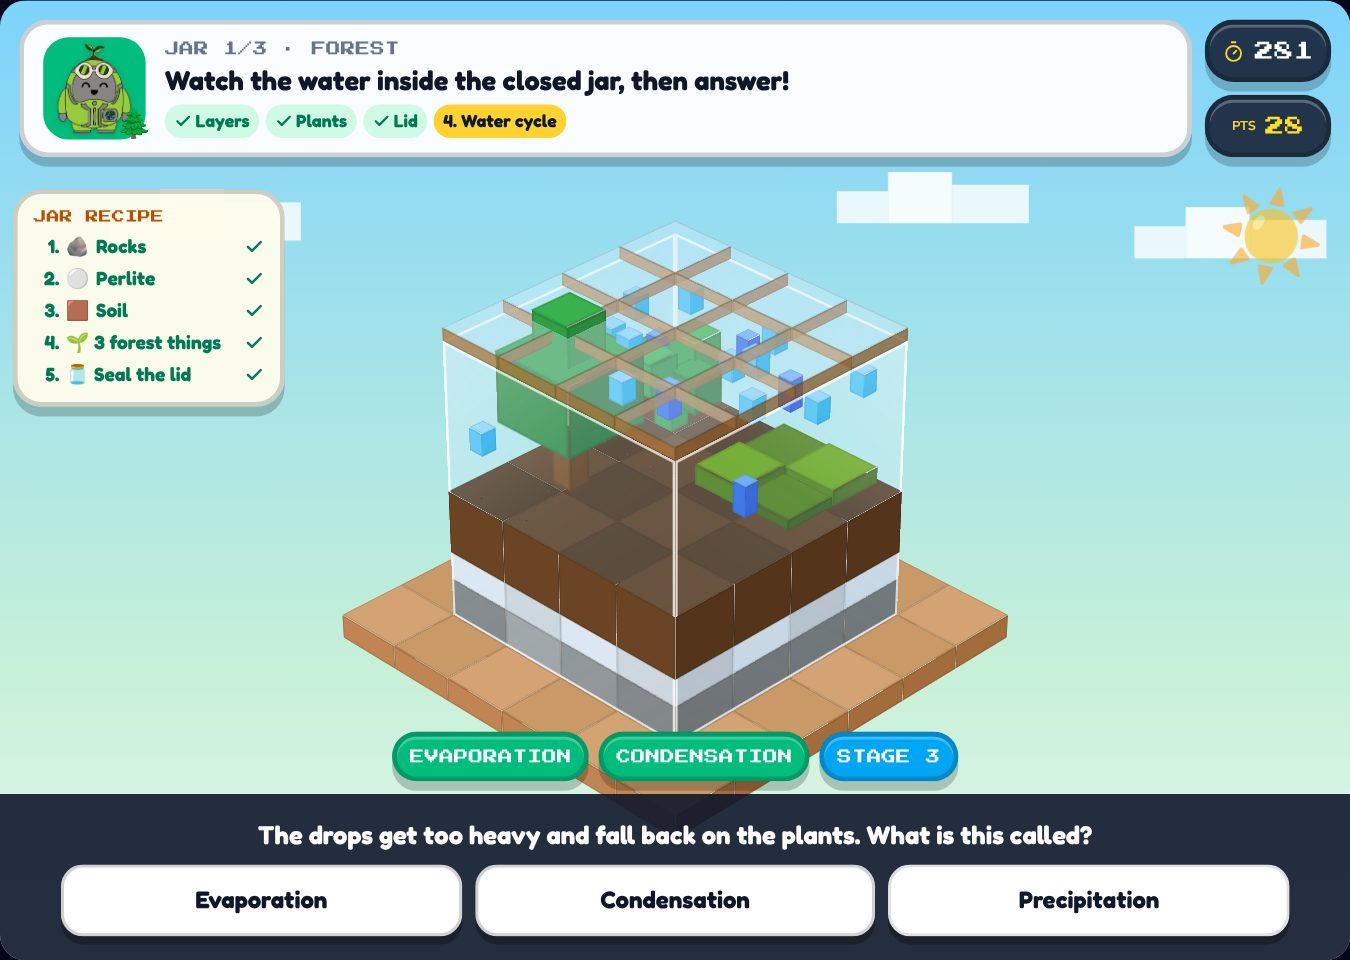
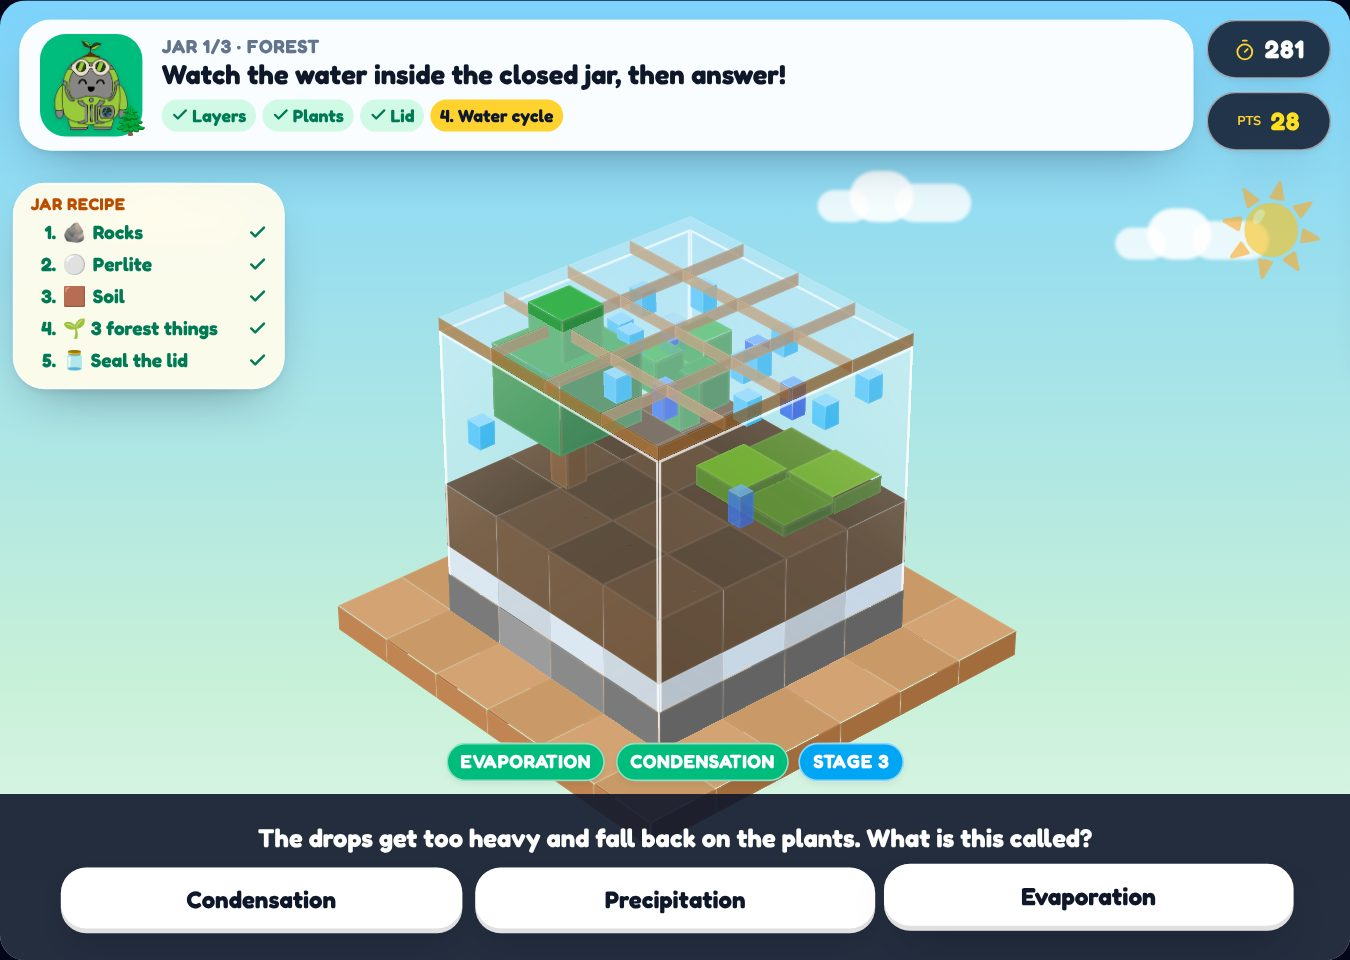
Give all lesson games a cleaner, less retro look with more motion
The shared game kit drops the pixel font for Fredoka, swaps hard pixel
shadows and borders for soft rounded glass panels and springy buttons, and
replaces the checker and striped block textures with a smooth sheen. 3D
scenes now sway gently, header backgrounds have drifting light, and hotbar
tiles, sliders and clouds are rounded. Monopoly, BODMAS and Room Designer
floors lose their checker patterns.

Claude-Session: https://claude.ai/code/session_01GFdHE66tHrJE57FsyW3SaQ

Changed region(s): [[0.0622, 0.2188, 0.9644, 1.0], [0.0, 0.0, 0.9956, 0.4375], [0.0311, 0.9375, 0.0622, 0.9688]]

diff --git a/src/games/kit/games.css b/src/games/kit/games.css
@@ -1,63 +1,75 @@
-@import url("https://fonts.googleapis.com/css2?family=Press+Start+2P&family=Fredoka:wght@500;600;700&display=swap");
+@import url("https://fonts.googleapis.com/css2?family=Fredoka:wght@500;600;700&display=swap");
 
-/* Shared styles for the lesson games (pixel font, voxel blocks, animations). */
+/* Shared styles for the lesson games: clean rounded type, soft panels,
+   smooth 3D blocks and animations. */
 
+/* Labels, scores and counters. (Was a pixel font: font-size-adjust keeps the
+   sizes the games were laid out for while using a clean rounded face.) */
 .game-pixel {
-  font-family: "Press Start 2P", ui-monospace, monospace;
-  letter-spacing: 0.02em;
+  font-family: "Fredoka", ui-rounded, system-ui, sans-serif;
+  font-weight: 700;
+  font-size-adjust: 0.66;
+  letter-spacing: 0.04em;
+  font-variant-numeric: tabular-nums;
+  line-height: 1.15;
 }
 
 .game-fun {
   font-family: "Fredoka", ui-rounded, system-ui, sans-serif;
 }
 
-/* Chunky "pressable" game buttons with a 3D bottom edge */
+/* Soft, rounded buttons that lift on hover and squish on press */
 .game-btn {
   font-family: "Fredoka", ui-rounded, system-ui, sans-serif;
   font-weight: 700;
-  border-radius: 14px;
+  border-radius: 16px;
   padding: 0.7rem 1.25rem;
-  box-shadow: 0 5px 0 rgba(0, 0, 0, 0.28), inset 0 2px 0 rgba(255, 255, 255, 0.35);
-  transform: translateY(0);
-  transition: transform 80ms ease, box-shadow 80ms ease, filter 120ms ease;
-  border: 2px solid rgba(0, 0, 0, 0.18);
+  border: none;
+  box-shadow: 0 8px 18px -8px rgba(15, 23, 42, 0.45), inset 0 -3px 0 rgba(0, 0, 0, 0.12), inset 0 1px 0 rgba(255, 255, 255, 0.45);
+  transform: translateY(0) scale(1);
+  transition: transform 160ms cubic-bezier(0.2, 0.9, 0.3, 1.3), box-shadow 160ms ease, filter 160ms ease;
 }
 .game-btn:hover:not(:disabled) {
-  filter: brightness(1.07);
+  transform: translateY(-2px) scale(1.02);
+  box-shadow: 0 14px 24px -10px rgba(15, 23, 42, 0.5), inset 0 -3px 0 rgba(0, 0, 0, 0.12), inset 0 1px 0 rgba(255, 255, 255, 0.45);
 }
 .game-btn:active:not(:disabled) {
-  transform: translateY(4px);
-  box-shadow: 0 1px 0 rgba(0, 0, 0, 0.28), inset 0 2px 0 rgba(255, 255, 255, 0.35);
+  transform: translateY(1px) scale(0.97);
+  box-shadow: 0 4px 10px -6px rgba(15, 23, 42, 0.45), inset 0 -1px 0 rgba(0, 0, 0, 0.12);
 }
 .game-btn:disabled {
   opacity: 0.45;
   cursor: not-allowed;
 }
 
-/* Pixel-block panel, Minecraft-ish */
+/* Floating glass card */
 .game-panel {
-  border-radius: 18px;
-  border: 3px solid rgba(0, 0, 0, 0.18);
-  box-shadow: 0 6px 0 rgba(0, 0, 0, 0.2), inset 0 2px 0 rgba(255, 255, 255, 0.25);
+  border-radius: 20px;
+  border: 1px solid rgba(255, 255, 255, 0.55);
+  box-shadow: 0 14px 34px -16px rgba(15, 23, 42, 0.45), 0 2px 6px -2px rgba(15, 23, 42, 0.12);
+  backdrop-filter: blur(8px);
+  -webkit-backdrop-filter: blur(8px);
 }
 
-/* Checkered pixel overlay that sits on top of any background (incl. gradients) */
+/* Soft light blobs drifting over a gradient (used on headers and start screens) */
 .game-checker {
   isolation: isolate;
 }
 .game-checker::before {
   content: "";
   position: absolute;
-  inset: 0;
+  inset: -20%;
   z-index: -1;
   pointer-events: none;
-  background-image:
-    linear-gradient(45deg, rgba(255, 255, 255, 0.09) 25%, transparent 25%),
-    linear-gradient(-45deg, rgba(255, 255, 255, 0.09) 25%, transparent 25%),
-    linear-gradient(45deg, transparent 75%, rgba(255, 255, 255, 0.09) 75%),
-    linear-gradient(-45deg, transparent 75%, rgba(255, 255, 255, 0.09) 75%);
-  background-size: 32px 32px;
-  background-position: 0 0, 0 16px, 16px -16px, -16px 0;
+  background:
+    radial-gradient(circle at 20% 30%, rgba(255, 255, 255, 0.22), transparent 32%),
+    radial-gradient(circle at 80% 70%, rgba(255, 255, 255, 0.16), transparent 30%),
+    radial-gradient(circle at 60% 10%, rgba(255, 255, 255, 0.12), transparent 25%);
+  animation: game-drift 14s ease-in-out infinite alternate;
+}
+@keyframes game-drift {
+  from { transform: translate3d(-4%, -2%, 0) rotate(0deg); }
+  to { transform: translate3d(4%, 3%, 0) rotate(6deg); }
 }
 
 /* ── Voxel (CSS 3D) ───────────────────────────── */
@@ -75,12 +87,19 @@
   inset: 0;
   backface-visibility: hidden;
   transition: background-color 400ms ease, opacity 300ms ease;
-  box-shadow: inset 0 0 0 1px rgba(0, 0, 0, 0.12);
+  box-shadow: inset 0 0 0 1px rgba(255, 255, 255, 0.08);
 }
 .vx-face.textured {
-  background-image:
-    linear-gradient(rgba(255, 255, 255, 0.1) 25%, transparent 25%, transparent 50%, rgba(0, 0, 0, 0.06) 50%, rgba(0, 0, 0, 0.06) 75%, transparent 75%);
-  background-size: 50% 50%;
+  background-image: linear-gradient(140deg, rgba(255, 255, 255, 0.22), rgba(255, 255, 255, 0) 55%, rgba(0, 0, 0, 0.06));
+}
+
+/* The whole 3D scene sways gently so it always feels alive */
+@keyframes vx-sway {
+  0%, 100% { transform: rotateX(var(--tilt)) rotateZ(calc(var(--spin) - 4deg)); }
+  50% { transform: rotateX(var(--tilt)) rotateZ(calc(var(--spin) + 4deg)); }
+}
+.vx-world.vx-sway {
+  animation: vx-sway 9s ease-in-out infinite;
 }
 
 @keyframes game-float {
@@ -140,25 +159,25 @@
   height: 18px;
   border-radius: 999px;
   background: var(--track, #334155);
-  border: 3px solid rgba(0, 0, 0, 0.25);
+  border: none;
   outline: none;
 }
 .game-range::-webkit-slider-thumb {
   -webkit-appearance: none;
   width: 30px;
   height: 30px;
-  border-radius: 8px;
+  border-radius: 999px;
   background: var(--thumb, #facc15);
-  border: 3px solid rgba(0, 0, 0, 0.35);
-  box-shadow: 0 3px 0 rgba(0, 0, 0, 0.3);
+  border: 4px solid #fff;
+  box-shadow: 0 4px 12px rgba(0, 0, 0, 0.35);
   cursor: grab;
 }
 .game-range::-moz-range-thumb {
   width: 26px;
   height: 26px;
-  border-radius: 8px;
+  border-radius: 999px;
   background: var(--thumb, #facc15);
-  border: 3px solid rgba(0, 0, 0, 0.35);
+  border: 4px solid #fff;
   cursor: grab;
 }
 
@@ -225,28 +244,28 @@
   75% { transform: translate(3px, -2px); }
 }
 
-/* Minecraft-style hotbar slot */
+/* Item tile in a hotbar */
 .game-slot {
-  background: #8b8b8b;
-  border: 3px solid;
-  border-color: #373737 #ffffff #ffffff #373737;
-  box-shadow: inset 0 0 0 2px #c6c6c6;
-  border-radius: 6px;
-  transition: transform 80ms ease, filter 120ms ease;
+  background: rgba(255, 255, 255, 0.12);
+  border: 1px solid rgba(255, 255, 255, 0.22);
+  border-radius: 16px;
+  box-shadow: 0 8px 18px -10px rgba(0, 0, 0, 0.6);
+  transition: transform 160ms cubic-bezier(0.2, 0.9, 0.3, 1.3), background 160ms ease;
 }
 .game-slot:hover:not(:disabled) {
-  filter: brightness(1.12);
-  transform: translateY(-2px);
+  background: rgba(255, 255, 255, 0.22);
+  transform: translateY(-4px) scale(1.04);
 }
 .game-slot:active:not(:disabled) {
-  transform: translateY(2px);
+  transform: translateY(0) scale(0.96);
 }
 .game-slot:disabled {
   opacity: 0.4;
   cursor: not-allowed;
 }
 .game-slot.picked {
-  background: #4ade80;
+  background: rgba(74, 222, 128, 0.85);
+  border-color: rgba(255, 255, 255, 0.6);
 }
 
 /* Rocket game */

diff --git a/src/games/BodmasTasks.tsx b/src/games/BodmasTasks.tsx
@@ -714,7 +714,7 @@ export function BodmasTasks({ seed, reportProgress, finish }: GameProps) {
         <Overlay>
           <div className="text-center game-bounce-in">
             <p className="text-6xl mb-3">🛰✨</p>
-            <p className="game-pixel text-lg sm:text-2xl text-emerald-300 drop-shadow-[0_4px_0_rgba(0,0,0,0.5)]">ALL SYSTEMS ONLINE!</p>
+            <p className="game-pixel text-lg sm:text-2xl text-emerald-300 drop-shadow-[0_6px_14px_rgba(0,0,0,0.35)]">ALL SYSTEMS ONLINE!</p>
             <p className="text-white/90 mt-3 font-semibold">Ship safety bonus: +{Math.round(SAB_POINTS * (1 - (sabEnd ?? 0)))}</p>
             <p className="text-amber-300 mt-1 font-bold">But wait… someone broke the ship on purpose…</p>
           </div>
@@ -731,7 +731,7 @@ export function BodmasTasks({ seed, reportProgress, finish }: GameProps) {
         <Overlay red>
           <div className="text-center game-bounce-in px-4">
             <p className="text-6xl mb-3">💥</p>
-            <p className="game-pixel text-lg sm:text-2xl text-rose-300 drop-shadow-[0_4px_0_rgba(0,0,0,0.5)]">SHIP SABOTAGED!</p>
+            <p className="game-pixel text-lg sm:text-2xl text-rose-300 drop-shadow-[0_6px_14px_rgba(0,0,0,0.35)]">SHIP SABOTAGED!</p>
             <p className="text-white/90 mt-3 font-semibold">The impostor wins this time. Replay and fix the systems faster!</p>
           </div>
         </Overlay>
@@ -852,9 +852,7 @@ function ShipMap({
                   side2={S ? "#1e1b4b" : "#64748b"}
                   topStyle={{
                     backgroundImage:
-                      "linear-gradient(45deg, rgba(255,255,255,0.12) 25%, transparent 25%, transparent 75%, rgba(255,255,255,0.12) 75%), linear-gradient(45deg, rgba(255,255,255,0.12) 25%, transparent 25%, transparent 75%, rgba(255,255,255,0.12) 75%)",
-                    backgroundSize: "28px 28px",
-                    backgroundPosition: "0 0, 14px 14px",
+                      "radial-gradient(circle at 30% 25%, rgba(255,255,255,0.28), transparent 55%), linear-gradient(160deg, rgba(255,255,255,0.12), rgba(0,0,0,0.04))",
                     boxShadow: done ? "inset 0 0 0 4px #4ade80, 0 0 24px #4ade80" : isSys ? "inset 0 0 0 4px rgba(248,113,113,0.85)" : "inset 0 0 0 4px #e2e8f0",
                     pointerEvents: "auto",
                     transition: "background-color 500ms",
@@ -1419,7 +1417,7 @@ function Meeting({ suspects, vote, onVote }: { suspects: SuspectInfo[]; vote: nu
     <div className="absolute inset-0 z-30 flex p-2 sm:p-4 overflow-y-auto" style={{ background: "radial-gradient(ellipse at 50% 0%, #7f1d1d, #1e1b4b 70%)" }}>
       <div className="m-auto w-full max-w-[760px]">
       <div className="text-center mb-2 game-bounce-in">
-        <p className="game-pixel text-sm sm:text-xl text-rose-300 drop-shadow-[0_3px_0_rgba(0,0,0,0.6)]">🚨 EMERGENCY MEETING 🚨</p>
+        <p className="game-pixel text-sm sm:text-xl text-rose-300 drop-shadow-[0_6px_14px_rgba(0,0,0,0.4)]">🚨 EMERGENCY MEETING 🚨</p>
         <p className="text-white font-bold text-sm sm:text-base mt-1">Who is the impostor? One crewmate's working breaks BODMAS. Vote them out!</p>
       </div>
       <div className="grid grid-cols-[repeat(auto-fit,minmax(250px,1fr))] gap-2 sm:gap-3 w-full max-w-[760px]">

diff --git a/src/games/RoomDesigner.tsx b/src/games/RoomDesigner.tsx
@@ -417,9 +417,9 @@ export function RoomDesigner({ seed, reportProgress, finish }: GameProps) {
       ].map(([left, top, sc], i) => (
         <div key={i} className="absolute pointer-events-none" style={{ left: `${left}%`, top: top + 96, transform: `scale(${sc})`, animation: `game-float ${4 + i}s ease-in-out infinite` }}>
           <div className="flex items-end">
-            <span className="block w-8 h-5 bg-white/90" />
-            <span className="block w-10 h-8 bg-white/95" />
-            <span className="block w-12 h-6 bg-white/90" />
+            <span className="block w-8 h-5 -ml-3 rounded-full bg-white/90 blur-[1px]" />
+            <span className="block w-10 h-8 -ml-3 rounded-full bg-white/95 blur-[1px]" />
+            <span className="block w-12 h-6 -ml-3 rounded-full bg-white/90 blur-[1px]" />
           </div>
         </div>
       ))}
@@ -667,10 +667,7 @@ function Slab({ w, d, t, top, side, side2 }: { w: number; d: number; t: number; 
           width: w,
           height: d,
           background: top,
-          backgroundImage:
-            "linear-gradient(45deg, rgba(0,0,0,0.06) 25%, transparent 25%, transparent 75%, rgba(0,0,0,0.06) 75%), linear-gradient(45deg, rgba(0,0,0,0.06) 25%, transparent 25%, transparent 75%, rgba(0,0,0,0.06) 75%)",
-          backgroundSize: `${(w / GRID) * 2}px ${(w / GRID) * 2}px`,
-          backgroundPosition: `0 0, ${w / GRID}px ${w / GRID}px`,
+          backgroundImage: "radial-gradient(circle at 35% 30%, rgba(255,255,255,0.25), transparent 60%)",
           transform: `translateZ(${t}px)`,
         }}
       />

diff --git a/src/games/SgMonopoly.tsx b/src/games/SgMonopoly.tsx
@@ -1037,10 +1037,8 @@ export function SgMonopoly({ mode, seed, me, live, reportProgress, finish }: Gam
           top="#4ade80"
           topStyle={{
             backgroundImage:
-              "linear-gradient(45deg, rgba(255,255,255,0.12) 25%, transparent 25%, transparent 75%, rgba(255,255,255,0.12) 75%), linear-gradient(45deg, rgba(255,255,255,0.12) 25%, transparent 25%, transparent 75%, rgba(255,255,255,0.12) 75%)",
-            backgroundSize: `${cell / 2}px ${cell / 2}px`,
-            backgroundPosition: `0 0, ${cell / 4}px ${cell / 4}px`,
-            borderRadius: 6,
+              "radial-gradient(circle at 30% 25%, rgba(255,255,255,0.28), transparent 55%), linear-gradient(160deg, rgba(255,255,255,0.12), rgba(0,0,0,0.04))",
+            borderRadius: 14,
           }}
         />
         {/* Marina Bay water in the middle */}
@@ -1417,7 +1415,7 @@ export function SgMonopoly({ mode, seed, me, live, reportProgress, finish }: Gam
           style={{ top: 70 + k * 46, left: 0, animation: `sgm-cloud ${38 + k * 11}s linear ${-k * 13}s infinite`, opacity: 0.85 }}
         >
           {[0, 1, 2].map((j) => (
-            <span key={j} className="block bg-white" style={{ width: 24, height: j === 1 ? 24 : 15, marginTop: j === 1 ? 0 : 9, boxShadow: "inset 0 -4px 0 rgba(0,0,0,0.06)" }} />
+            <span key={j} className="block bg-white rounded-full" style={{ width: j === 1 ? 34 : 26, height: j === 1 ? 28 : 18, marginTop: j === 1 ? 0 : 10, marginLeft: j ? -10 : 0 }} />
           ))}
         </div>
       ))}

diff --git a/src/games/kit/Voxel.tsx b/src/games/kit/Voxel.tsx
@@ -1,4 +1,4 @@
-// Minecraft-style 3D blocks drawn with CSS 3D transforms.
+// 3D blocks drawn with CSS 3D transforms.
 // <VoxelWorld> tilts a flat grid into an isometric view; <Voxel> is one cube
 // on that grid at (x, y) with height z (all in block units).
 
@@ -108,6 +108,7 @@ export function VoxelWorld({
   size,
   tilt = 58,
   spin = 45,
+  sway = true,
   children,
   className,
   style,
@@ -117,6 +118,8 @@ export function VoxelWorld({
   size: number;
   tilt?: number;
   spin?: number;
+  /** Gently rock the scene back and forth. */
+  sway?: boolean;
   children: ReactNode;
   className?: string;
   style?: CSSProperties;
@@ -124,12 +127,16 @@ export function VoxelWorld({
   return (
     <div className={`relative flex items-center justify-center ${className ?? ""}`} style={{ perspective: 2200, ...style }}>
       <div
-        className="vx-world"
-        style={{
-          width: cols * size,
-          height: rows * size,
-          transform: `rotateX(${tilt}deg) rotateZ(${spin}deg)`,
-        }}
+        className={`vx-world${sway ? " vx-sway" : ""}`}
+        style={
+          {
+            width: cols * size,
+            height: rows * size,
+            "--tilt": `${tilt}deg`,
+            "--spin": `${spin}deg`,
+            transform: `rotateX(${tilt}deg) rotateZ(${spin}deg)`,
+          } as CSSProperties
+        }
       >
         {children}
       </div>

diff --git a/src/games/TerrariumBuilder.tsx b/src/games/TerrariumBuilder.tsx
@@ -497,9 +497,9 @@ export function TerrariumBuilder({ seed, reportProgress, finish }: GameProps) {
       ].map(([left, top, sc], i) => (
         <div key={i} className="absolute pointer-events-none" style={{ left: `${left}%`, top: top + 96, transform: `scale(${sc})`, animation: `game-float ${4 + i}s ease-in-out infinite` }}>
           <div className="flex items-end">
-            <span className="block w-8 h-5 bg-white/80" />
-            <span className="block w-10 h-8 bg-white/90" />
-            <span className="block w-12 h-6 bg-white/80" />
+            <span className="block w-8 h-5 -ml-3 rounded-full bg-white/80 blur-[1px]" />
+            <span className="block w-10 h-8 -ml-3 rounded-full bg-white/90 blur-[1px]" />
+            <span className="block w-12 h-6 -ml-3 rounded-full bg-white/80 blur-[1px]" />
           </div>
         </div>
       ))}

diff --git a/src/games/RocketLaunch.tsx b/src/games/RocketLaunch.tsx
@@ -715,7 +715,7 @@ function FlightScene({ box, things, lane, bump }: { box: { w: number; h: number 
       );
   return (
     <div key={bump} className="absolute inset-0" style={bump ? { animation: "game-shake 300ms ease" } : undefined}>
-      <VoxelWorld cols={LANES} rows={TRACK} size={S} tilt={62} spin={0} className="absolute inset-x-0 top-0" style={{ bottom: S * 1.2, perspective: 900, perspectiveOrigin: "50% 30%" }}>
+      <VoxelWorld cols={LANES} rows={TRACK} size={S} tilt={62} spin={0} sway={false} className="absolute inset-x-0 top-0" style={{ bottom: S * 1.2, perspective: 900, perspectiveOrigin: "50% 30%" }}>
         {tiles}
         {things.map((o) =>
           o.kind === "rock" ? (

diff --git a/src/games/kit/GameShell.tsx b/src/games/kit/GameShell.tsx
@@ -406,7 +406,7 @@ export function GameShell({
 
           {phase === "countdown" && (
             <div className="absolute inset-0 z-20 bg-slate-950/60 flex items-center justify-center">
-              <span key={count} className="game-pixel text-7xl text-yellow-300 drop-shadow-[0_6px_0_rgba(0,0,0,0.5)] game-bounce-in">
+              <span key={count} className="game-pixel text-7xl text-yellow-300 drop-shadow-[0_8px_18px_rgba(0,0,0,0.35)] game-bounce-in">
                 {count > 0 ? count : "GO!"}
               </span>
             </div>
